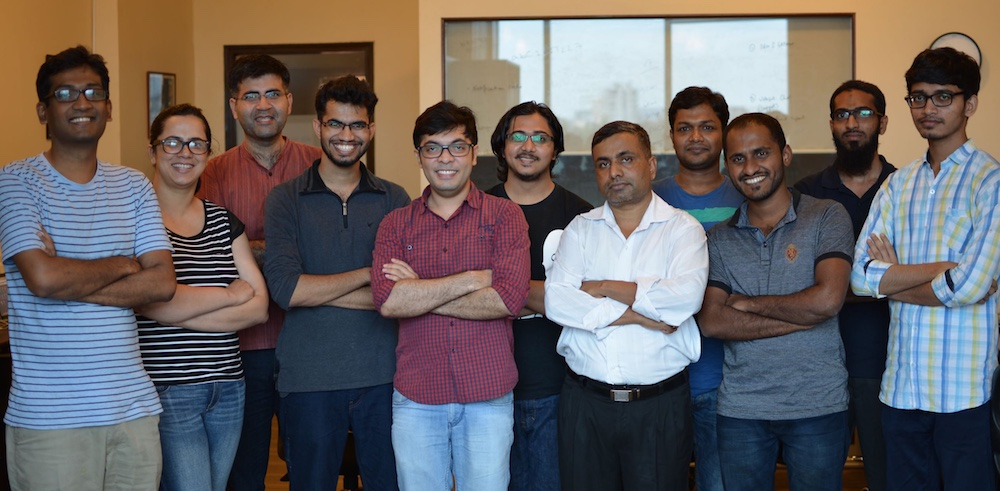
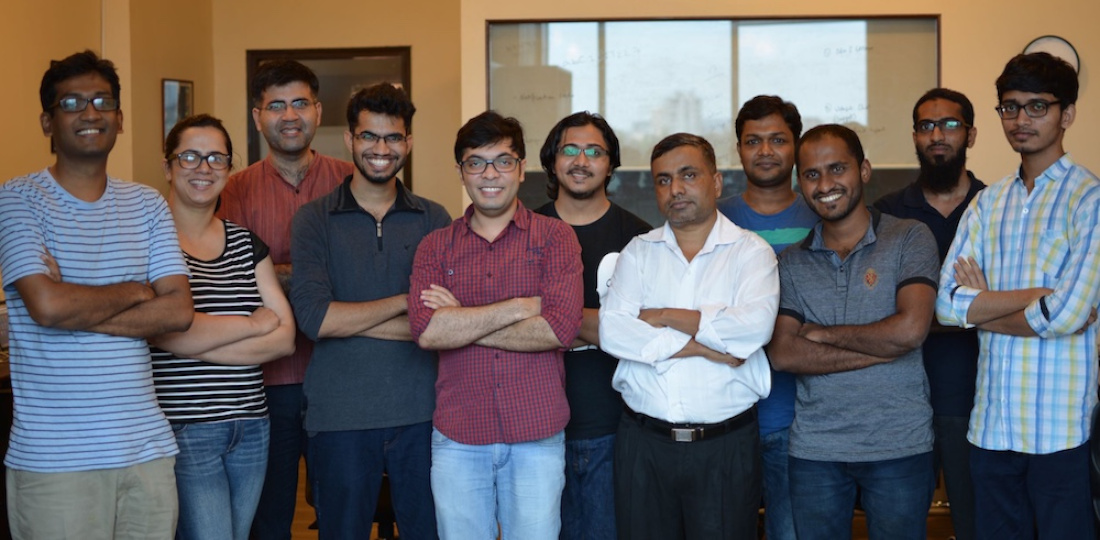
Add section padding and scale about team image

Changed region(s): [[0.124, 0.6721, 0.248, 0.7943], [0.155, 0.4277, 0.248, 0.5804]]

diff --git a/frappe_io/www/about.html b/frappe_io/www/about.html
@@ -4,52 +4,52 @@
 
 <!-- Navigation -->
 <!-- Hero Section -->
-<section class="my-5 px-3 text-center">
-	<img class="w-50 m-auto" src="/assets/frappe_theme/img/frappe-hero.svg">
+<section class="section-padding px-3 text-center">
+	<img class="frappe-hero m-auto" src="/assets/frappe_theme/img/frappe-hero.svg">
 	<div class="col-sm-12 mt-4">
 		<h1 class="font-weight-normal">Frappe &mdash; The Company</h1>
-		<p class='lead'>Established in 2008, Frappe is an internet company based out of Mumbai, India. Its flagship product ERPNext is an award-winning and easy to use ERP loved by businesses worldwide.</p>
-		<a href="/story">Read the full story.</a>
+		<p class='lead text-muted'>Established in 2008, Frappe is an internet company based out of Mumbai, India. Its flagship product ERPNext is an award-winning and easy to use ERP loved by businesses worldwide.</p>
+		<a class="mt-4 btn btn-outline-secondary" href="/story">Read the full story.</a>
 	</div>
 </section>
 
 <hr class="featurette-divider">
 
-<section class="my-5 px-3 row">
+<section class="section-padding px-3 row">
 	<div class="col-sm-4">
-		<img class="img-fluid"src="/assets/frappe_theme/img/open-source.svg">
+		<img class="img-fluid" src="/assets/frappe_theme/img/open-source.svg">
 	</div>
 	<div class="col-sm-8">
-		<h1 class="font-weight-normal">Serious About Open Source</h1>
-		<p>Frappe products and the web framework have a thriving open source community. Developers and service providers participate from over 44 countries and are relentless about building ERP ecosystems.</p>
-		<a href="https://discuss.erpnext.com">Join the Community</a>
+		<h2 class="font-weight-normal">Serious About Open Source</h2>
+		<p class="text-muted">Frappe products and the web framework have a thriving open source community. Developers and service providers participate from over 44 countries and are relentless about building ERP ecosystems.</p>
+		<a  class="mt-4 btn btn-outline-secondary" href="https://discuss.erpnext.com">Join the Community</a>
 	</div>
 </section>
 
 <hr class="featurette-divider">
 
-<section class="row text-center my-5 px-3">
+<section class="row text-center section-padding px-3">
 	<div class="col-sm-12">
-		<h1 class="font-weight-normal">Team Frappe</h1>
-		<p class="lead">We love to build new things and break them apart, and build them again</p>
+		<h2 class="font-weight-normal">Team Frappe</h2>
+		<p class="lead text-muted">We love to build new things and break them apart, and build them again</p>
 	</div>
 	<div class='col-sm-12 mt-4'>
-		<img class="img-fluid" src="/assets/frappe_io/images/team/team-1.jpg">
+		<img class="greyscale img-fluid" src="/assets/frappe_io/images/team/team-1.jpg">
 	</div>
 	<div class='col-sm-6 mt-4'>
-		<img class="img-fluid" src="/assets/frappe_io/images/team/team-2.jpg">
+		<img class="greyscale img-fluid" src="/assets/frappe_io/images/team/team-2.jpg">
 	</div>
 	<div class='col-sm-6 mt-4'>
-		<img class="img-fluid" src="/assets/frappe_io/images/team/team-3.jpg">
+		<img class="greyscale img-fluid" src="/assets/frappe_io/images/team/team-3.jpg">
 	</div>
 </section>
 
 <hr class="featurette-divider">
 
-<section class="mt-5 px-3 row text-center">
+<section class="section-padding px-3 row text-center">
 	{% for m in team %}
 	<div class="col-sm-3 mb-4">
-		<img class="img-fluid" src="/assets/frappe_io/images/team/{{ m.name.split()[0].lower() }}.jpg">
+		<img class="greyscale img-fluid" src="/assets/frappe_io/images/team/{{ m.name.split()[0].lower() }}.jpg">
 		<a href="https://frappe.io/blog?blogger={{ m.blogger }}">
 			<h5 class="mt-2 font-weight-normal">{{ m.name }}</h5>
 		</a>
@@ -67,7 +67,7 @@
 		</p>
 	</div>
 	{% endfor %}
-	<div class="col-sm-12 col-xs-12 text-center">
+	<div class="col-sm-12 col-xs-12 mt-4 text-center">
 		<h5 class-"font-weight-normal"><em>We're hiring!</em></h5>
 		<p><a href=/jobs>Want to join us?</a></p>
 	</div>
@@ -85,7 +85,7 @@
 
 <hr class="featurette-divider">
 
-<section class="my-5 px-3 row">
+<section class="section-padding px-3 row">
 	<div class="col-sm-6" id="contact">
 		<h3 class="font-weight-normal">Write to us</h3>
 		<p>Have a question or comment? Write in, we would love to hear from you. We’ll write back as soon as we can.</p>
@@ -103,7 +103,7 @@
 		<p>Skype: <b>erpnext</b></p>
 		<p>Twitter: <a href="https://twitter.com/erpnext" target="_blank"><b>@erpnext</b></a></p>
 		<p>Phone: <a href="tel:080-339-23819">080-339-23819</a></p>
-		<img class="img-fluid" src="/assets/frappe_theme/img/office-map.svg" class="office-map">
+		<img class="frappe-hero mx-5 mt-5" src="/assets/frappe_theme/img/office-map.svg" class="office-map">
 	</div>
 </section>
 

diff --git a/frappe_io/www/index.html b/frappe_io/www/index.html
@@ -15,8 +15,8 @@
 <section class="row section-padding px-3">
 	<div class="col-sm-8">
 		<h1 class="font-weight-normal">ERPNext + Frappe Framework</h1>
-		<p>ERPNext is built entirely on the Frappe framework. This extensible framework allows you to customize and fine tune ERPNext to best suit your business workflow.</p>
-		<a href="https://frappe.io/docs/user/">Read the Documentation</a>
+		<p class="lead text-muted">ERPNext is built entirely on the Frappe framework. This extensible framework allows you to customize and fine tune ERPNext to best suit your business workflow.</p>
+		<a class="btn btn-outline-secondary mt-2" href="https://frappe.io/docs/user/">Read the Documentation</a>
 	</div>
 	<div class="col-sm-4">
 		<img src="/assets/frappe_theme/img/developers-erp-framework.svg" class="img-fluid">
@@ -30,21 +30,21 @@
 		<img class="media-img"src="/assets/frappe_theme/img/developers-community.svg">
 		<h4>Community</h4>
 		<p>Frappe connects business users with service providers and web developers who specialize in ERP systems.</p>
-		<a href="https://erpnext.org/service-providers" target="_blank">Learn More</a>
+		<a class="btn btn-outline-secondary mt-2" href="https://erpnext.org/service-providers" target="_blank">Learn More</a>
 	</div>
 
 	<div class="col-sm-4">
 		<img class="media-img" src="/assets/frappe_theme/img/developers-apps.svg">
 		<h4>Frappe Apps</h4>
 		<p>Contributions drive the open source ecosystem. A showcase of Frappe apps built by amazing fellow developers.</p>
-		<a href="https://erpnext.org/apps" target="_blank">View Apps</a>
+		<a class="btn btn-outline-secondary mt-2" href="https://erpnext.org/apps" target="_blank">View Apps</a>
 	</div>
 
 	<div class="col-sm-4">
 		<img class="media-img" src="/assets/frappe_theme/img/developers-training.svg">
 		<h4>Consulting</h4>
 		<p>Frappe offers special consulting programs for businesses who want in-house capabilities in building and managing their ERP systems.</p>
-		<a href="https://erpnext.com/pricing/vip" target="_blank">Learn More</a>
+		<a  class="btn btn-outline-secondary mt-2" href="https://erpnext.com/pricing/vip" target="_blank">Learn More</a>
 	</div>
 </section>
 
